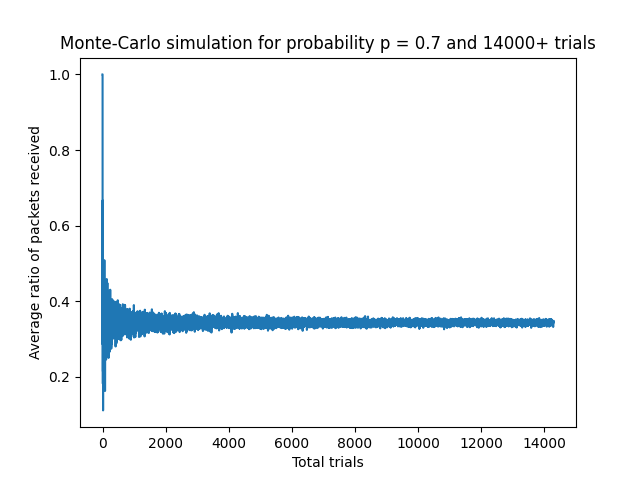
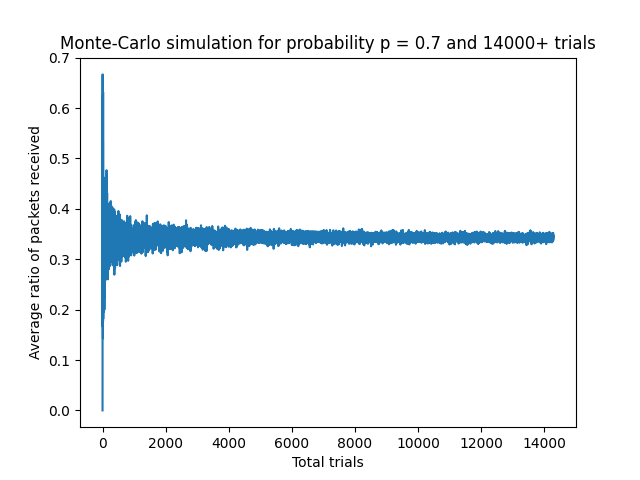
made monte-carlo works

diff --git a/pathset_mCarlo_test.py b/pathset_mCarlo_test.py
@@ -2,77 +2,137 @@ import random
 import matplotlib.pyplot as plt
 import numpy as np
 
-# Define pathsets as a list of edges.
+# Define pathsets as a list of edges. NOW CUTSETS
 pathsets = [
+    # [(1, 2), (2, 4)],
+    # [(1, 3), (3, 4)]
+
+
+
     [(1, 2), (2, 4)],
+    [(1,4)],
     [(1, 3), (3, 4)]
+
+    #Collection K
+    # [(1, 2, 0)]
+    # [(1, 2, 0), (2, 3, 0)],
+    # [(1, 2, 0), (2, 3, 1)],
+    # [(1, 2, 0), (1, 2, 1)],
+    # [(2, 3, 0), (2, 3, 1)]
+    # [(1, 2, 0), (2, 3, 0), (2, 3, 1)],
+
+    # [(1, 2), (3, 4)],
+    # [(2, 4), (3, 4)],
+    # [(1, 2), (1, 3), (2, 4)],
+    # [(1, 2), (1, 3), (2, 3)],
+    # [(1, 2), (1, 3), (3, 4)],
+    # [(1, 2), (2, 4), (3, 4)],
+    # [(1, 2), (2, 3), (3, 4)],
+    # [(1, 3), (2, 4), (2, 3)],
+    # [(1, 3), (2, 4), (3, 4)],
+    # [(2, 4), (2, 3), (3, 4)],
+    # [(1, 2), (1, 3), (2, 4), (2, 3)],
+    # [(1, 2), (1, 3), (2, 4), (3, 4)],
+    # [(1, 2), (1, 3), (2, 3), (3, 4)],
+    # [(1, 2), (2, 4), (2, 3), (3, 4)],
+    # [(1, 3), (2, 4), (2, 3), (3, 4)],
+    # [(1, 2), (1, 3), (2, 4), (2, 3), (3, 4)]
+
+
+
 ]
 
 def simulate_packet_arrival(source, destination, pathsets, edge_probabilities, num_packets):
-    success_count = 0
-    success_rates = []
+    failure_count = 0
+    failure_rates = []
 
     for packet_number in range(1, num_packets + 1):
-        success = False
+        failure = 0
         attempts = 0
-
-        while not success and attempts < len(pathsets):
+        tx_states = []
+        while attempts < len(pathsets):
+            # For each pathset or cutset
             chosen_pathset = pathsets[attempts]
-            success_probability = 1.0  # Initialize success probability for the pathset
-
+            failure_probability = 1.0  # Initialize failure probability for the pathset
+            failure = 0
+            failure_state = []
             for edge in chosen_pathset:
-                if edge in edge_probabilities:
-                    success_probability *= edge_probabilities[edge]
-
-            # Simulate packet transmission on the chosen pathset based on success probability
-            if random.random() < success_probability:
-                success = True
+                edge_probability = edge_probabilities.get(edge, 0)  # Fetch edge probability or default to 0
+                random_number_list = np.random.uniform(0,1,1)
+                random_number = random_number_list[-1]
+                if random_number <= edge_probability:
+                    failure = 1                                        
+                    failure_state.append(failure)                    
+            if sum(failure_state) >= 1 :
+                # packet did not arrive!
+                #failure_count +=1
+                tx_states.append(0)
+                # break
+            if sum(failure_state) == 0 : 
+                # packet arrived and one transmission is successful!get out of while loop               
+                tx_states.append(1)
+                break
+                    
+            # if edge_probability == 0.38 :
+            #     edge_probability, 
+            # increment number of attempts and change the considered pathset/cutset :   
             attempts += 1
+        if sum(tx_states) == 0:
+            # No transmission succeeded, increment failure_count
+            failure_count +=1
+        if (packet_number == num_packets-1) :
+            print("HERE 2")
+        failure_rate = failure_count / num_packets
+        failure_rates.append(failure_rate)
 
-        if success:
-            success_count += 1
-
-        success_rate = success_count / packet_number
-        success_rates.append(success_rate)
-
-    return success_rates
+    return failure_rates
 
 source = 1  # source and destination match node labels
-destination = 4
+destination = 3
 num_packets = 150000
 
-# Vary the success probability (probability_p) between 0 and 1
-success_probability_values = np.linspace(0, 1, num=101)  # 101 values from 0 to 1
+# Vary the failure probability (probability_p) between 0 and 1
+failure_probability_values = np.linspace(0, 1, num=101)  # 101 values from 0 to 1
 
-average_success_rates = []
+average_failure_rates = []
 
-for probability_p in success_probability_values:
+for probability_p in failure_probability_values:
     edge_probabilities = {
+        # (1, 2, 0): probability_p,
+        # (1, 2, 1): probability_p,
+        # (2, 3, 0): probability_p,
+        # (2, 3, 1): probability_p,
+        
         (1, 2): probability_p,
         (2, 4): probability_p,
         (1, 3): probability_p,
-        (3, 4): probability_p
+        (3, 4): probability_p,
+        (1, 4): probability_p
         # (4, 5): probability_p,
         # (5, 6): probability_p,
         # (6, 8): probability_p,
         # (5, 7): probability_p,
         # (7, 8): probability_p
     }
-    success_rates = simulate_packet_arrival(source, destination, pathsets, edge_probabilities, num_packets)
-    average_success_rate = success_rates[-1]#sum(success_rates) / len(success_rates)
-    average_success_rates.append(average_success_rate)
+    if probability_p == 0.45 :
+        print("HERE")
+    failure_rates = simulate_packet_arrival(source, destination, pathsets, edge_probabilities, num_packets)
+    average_failure_rate = failure_rates[-1]#sum(failure_rates) / len(failure_rates)
+    average_failure_rates.append(average_failure_rate)
+    print(f"Probability: {probability_p}, Simulated Failure Rate: {average_failure_rate}, Polynomial Value: {probability_p**5 - 4*probability_p**4 + 4*probability_p**3}")
+# Calculate the values of the polynomial p^4 - 4p^3 + 4p^2 for the same range of failure probabilities
+# polynomial_values = failure_probability_values**4 - 4 * failure_probability_values**3 + 4 * failure_probability_values**2
+# polynomial_values = failure_probability_values**2  - failure_probability_values**3 + failure_probability_values
+polynomial_values = failure_probability_values**5 - 4*failure_probability_values**4 + 4*failure_probability_values**3
 
-# Calculate the values of the polynomial p^4 - 4p^3 + 4p^2 for the same range of success probabilities
-polynomial_values = success_probability_values**4 - 4 * success_probability_values**3 + 4 * success_probability_values**2
-
-# Plotting the success rates and the polynomial
-plt.plot(success_probability_values, average_success_rates, label="Packet Arrival Success Rate")
-plt.plot(success_probability_values, polynomial_values, label="p^4 - 4p^3 + 4p^2", linestyle='dashed')
-plt.xlabel("Success Probability (probability_p)")
+# Plotting the failure rates and the polynomial
+plt.plot(failure_probability_values, average_failure_rates, label="Packet Arrival failure Rate")
+plt.plot(failure_probability_values, polynomial_values, label="p^5 -4p^4 +4p^3", linestyle='dashed')
+plt.xlabel("failure Probability (probability_p)")
 plt.ylabel("Values")
-plt.title(f"Packet Arrival Success Rate vs. Polynomial Comparison for {num_packets} packets")
+plt.title(f"Packet Arrival failure Rate vs. Polynomial Comparison for {num_packets} packets")
 plt.yscale('log')  # Set the y-axis to a logarithmic scale
 plt.legend()
 plt.grid(True)
-plt.savefig(f"monte-carlo_success_{num_packets}packets.png")
+plt.savefig(f"monte-carlo_failure_{num_packets}packets.png")
 # plt.show()

diff --git a/main.py b/main.py
@@ -387,7 +387,8 @@ t_node1 = 4 # target node
 G1.add_node(2, subset='others')
 G1.add_node(3, subset='others')
 # Edges 
-G1.add_edges_from([(1, 2, 0, {'capacity': "e1"}), (1, 3, 0, {'capacity': "e2"}), (2, 4, 0, {'capacity': "e3"}), (3, 4, 0, {'capacity': "e4"})])
+G1.add_edges_from([(1, 2, 0, {'capacity': "e1"}), (3, 4, 0, {'capacity': "e5"}), (2, 4, 0, {'capacity': "e3"})])
+# G1.add_edges_from([(1, 2, 0, {'capacity': "e1"}), (1, 3, 0, {'capacity': "e2"}), (2, 4, 0, {'capacity': "e3"}), (3, 4, 0, {'capacity': "e4"})])
 # G1.add_edges_from([(4, 5, 0, {'capacity': "e5"}), (5, 6, 0, {'capacity': "e6"}), (5, 7, 0, {'capacity': "e7"}), (6, 8, 0, {'capacity': "e8"}), (7, 8, 0, {'capacity': "e9"})])
 
 ### CREATE THE GRAPH G2
